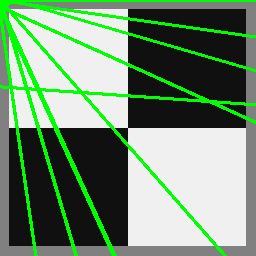
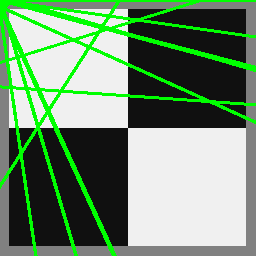
ps1 [cpp] update

diff --git a/assignments/PS1/hough_peaks.h b/assignments/PS1/hough_peaks.h
@@ -35,11 +35,13 @@ typedef struct{
  *
  * @return     { description_of_the_return_value }
  */
-bool hough_peaks(std::vector<std::vector<int> > &hough_acc, std::vector<std::vector<int> > &indicies, int n_lines_detected) {
+bool hough_peaks(std::vector<std::vector<int> > &hough_acc, std::vector<std::vector<int> > &indicies, \
+    int n_lines_detected, int window_size) {
   std::vector<std::vector<int> > peaks(hough_acc.size(), std::vector<int> (hough_acc[0].size(), 0));
   peaks = hough_acc;
   std::vector<Pix> peak_val(n_lines_detected, {0, 0, 0});
   Pix max_buf = {0, 0, 0};
+
   for (size_t n = 0; n < n_lines_detected; n++) {
     for (size_t r = 0; r < peaks.size(); r++) {
       for (size_t c = 0; c < peaks[0].size(); c++) {
@@ -52,6 +54,29 @@ bool hough_peaks(std::vector<std::vector<int> > &hough_acc, std::vector<std::vec
         }
       }
     }
+
+    for (size_t r = max_buf.row - (window_size/2); r < max_buf.row + (window_size/2); r++) {
+      for (size_t c = max_buf.col - (window_size/2); c < max_buf.col + (window_size/2); c++) {
+        if(r < 0) {
+          r = 0;
+        }
+
+        if(c < 0) {
+          c = 0;
+        }
+
+        if(r > peaks.size()) {
+          continue;
+        }
+
+        if(c > peaks[0].size()) {
+          continue;
+        }
+
+        peaks[r][c] = 0;
+      }
+    }
+
     peak_val[n] = max_buf;
     peaks[max_buf.row][max_buf.col] = std::numeric_limits<int>::min();
     max_buf = {0, 0, 0};
@@ -68,6 +93,14 @@ bool hough_peaks(std::vector<std::vector<int> > &hough_acc, std::vector<std::vec
 
   // scale the intensity values to get better observations
   // equalizeHist(img_mat, img_mat);
+
+  // for (int i = 0; i < n_lines_detected; ++i) {
+  //   props({
+  //     {"value", peak_val[i].value},
+  //     {"rho", peak_val[i].row},
+  //     {"theta", peak_val[i].col}
+  //   });
+  // }
 
   for (int i = 0; i < n_lines_detected; ++i) {
     indicies[i][0] = peak_val[i].row;

diff --git a/assignments/PS1/ps1.cpp b/assignments/PS1/ps1.cpp
@@ -72,7 +72,7 @@ int main(int argc, char const *argv[]) {
 
   std::vector<std::vector<int> > hough_acc(rhos.size(), std::vector<int>(thetas.size(), 0));
 
-  if (hough_lines_acc(img_a_edges, hough_acc, thetas, rhos, rho_resolution, theta_resolution)) {
+  if (hough_lines_acc(img_a_edges, hough_acc, thetas, rhos)) {
     stat_comp("hough lines");
   }
 
@@ -83,7 +83,8 @@ int main(int argc, char const *argv[]) {
   std::vector<std::vector<int> > peaks(n_lines_detected, std::vector<int> (2, 0));
   peaks = hough_acc;
 
-  if(!hough_peaks(hough_acc, peaks, n_lines_detected)) {
+  int window_size = 30;
+  if(!hough_peaks(hough_acc, peaks, n_lines_detected, window_size)) {
     err_report("hough peaks");
   } else stat_comp("hough peaks");
 
@@ -97,6 +98,6 @@ int main(int argc, char const *argv[]) {
   } else stat_comp("hough lines draw");
 
 
-  waitKey(0);
+  waitKey(500);
   return 0;
 }

diff --git a/assignments/PS1/hough_lines_acc.h b/assignments/PS1/hough_lines_acc.h
@@ -29,10 +29,10 @@
  * @param[in]  rho_resolution    The rho resolution
  * @param[in]  theta_resolution  The theta resolution
  *
- * @return     { description_of_the_return_value }
+ * @return     { bool value describing the success of hough lines }
  */
 bool hough_lines_acc(cv::Mat img_a_edges, std::vector<std::vector<int> > &hough_acc, \
-   std::vector<double> &thetas, std::vector<double> &rhos, int rho_resolution, int theta_resolution) {
+   std::vector<double> &thetas, std::vector<double> &rhos) {
   int img_w = img_a_edges.cols;
   int img_h = img_a_edges.rows;
   int img_dia = static_cast<int>(ceil(sqrt(pow(img_w, 2) + pow(img_h, 2))));

diff --git a/assignments/PS1/canny_edge.h b/assignments/PS1/canny_edge.h
@@ -38,7 +38,7 @@ void canny_threshold(cv::Mat &img_a_gray, cv::Mat &img_a_edges) {
   blur(img_a_gray, mask, cv::Size(3, 3));
   Canny(img_a_gray, img_a_edges, low_threshold, low_threshold*ratio, kernel_size);
 
-  cv::namedWindow(window_name);
+  cv::namedWindow(window_name, CV_WINDOW_AUTOSIZE);
   cv::imshow(window_name, img_a_edges);
 }
 
